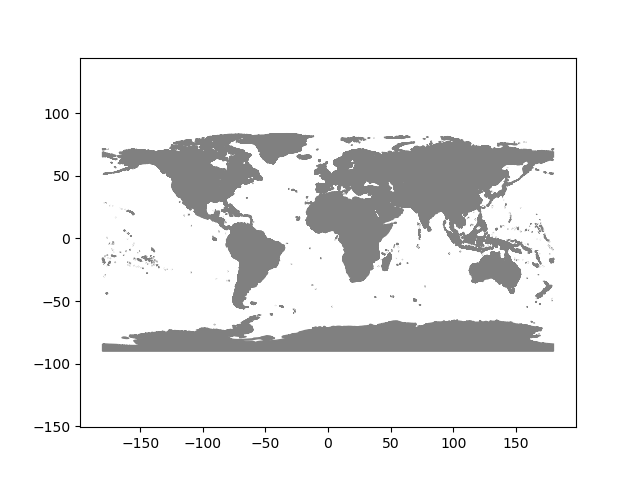
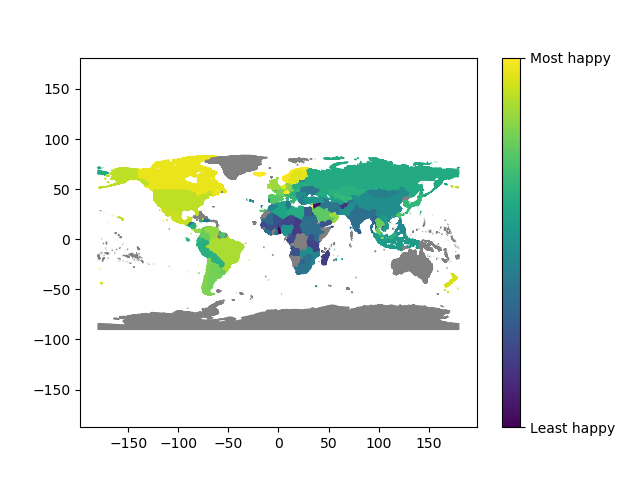
Final code

diff --git a/map_code.py b/map_code.py
@@ -35,23 +35,21 @@ with open('happy_2015.csv', 'r') as happiness15_file:
 # Create empty list for happy data countries
 countries = []
 # add all the happy data countries to the list
-for country in happiness_data:
-    for i in range(len(happiness_data)):
-        countries.append(happiness_data[i]['Country'])
+for i in range(len(happiness_data)):
+    countries.append(happiness_data[i]['Country'])
 
 # In[Step 3]
 # create numpy array to store the happiness scores
 happiness_score = np.zeros(len(happiness_data))
 # add the happiness scores to numpy array
-for country in happiness_data:
-    for i in range(len(happiness_data)):
-        happiness_score[i] = float(happiness_data[i]['Happiness Score'])
+for i in range(len(happiness_data)):
+    happiness_score[i] = float(happiness_data[i]['Happiness Score'])
 
 # In[Step 4]
 # scale the happiness scores by multiplying by 10^(number of decimal places)
 scaled_scores = []
 for scores in happiness_score:
-    scaled_scores.append(happiness_score * 1000)
+    scaled_scores.append(scores * 1000)
 
 # In[Step 5]
 # Next we need to match the index of the map countries to the happy countries
@@ -61,8 +59,8 @@ country_index = []
 
 # Use a for-loop and the list.index() method to find the index of the matching country name in
 # happy data. Add the index to our list country indexes
-for country in happiness_data:
-    country_index.append(happiness_data.index(country))
+for country in countries:
+    country_index.append(map_countries.index(country))
 
 # In[Step 6: Create colormap]    
 
@@ -70,7 +68,9 @@ for country in happiness_data:
 # The syntax for a colormap is: color_map = cm.get_cmap('viridis', number_of_colors)
 # The following syntax will produce a color for a happiness value eg. happiness 140 -> 
 # happy_color = color_map[140]
-color_map = cm.get_cmap('viridis', len(happiness_data))
+scaled_range = max(scaled_scores) - min(scaled_scores)
+color_map = cm.get_cmap('viridis', scaled_range)
+scaled_scores = scaled_scores - min(scaled_scores)
 
 # color all countries grey
 map_colors = ['Grey']*265
@@ -78,10 +78,8 @@ map_colors = ['Grey']*265
 # create a for-loop, for each country we have in happy data, replace map_colors at the country index
 # with the color map converted of happiness score.
 
-for country in happiness_data:
-    for i in map_colors:
-        map_colors[country_index[i]] = int(scaled_scores[i])
-
+for i in range(len(country_index)):
+    map_colors[country_index[i]] = color_map(int(scaled_scores[i]))
 
 
 ##### Do not edit below this line ####################################################   
@@ -105,10 +103,17 @@ ax.axis('equal')
     
 #  Add the colorbar code for google docs
 
+norm = colors.Normalize(vmin=np.min(happiness_score),vmax=np.max(happiness_score))
+sm = plt.cm.ScalarMappable(cmap='viridis', norm=norm)
+sm.set_array([])
+cbar = plt.colorbar(sm)
+cbar.set_ticks([np.min(happiness_score),np.max(happiness_score)])
+cbar.set_ticklabels(['Least happy','Most happy'])
+
 # save the figure output as a png
 fig.savefig('test_world.png')
    
-    
+
     
     
     
